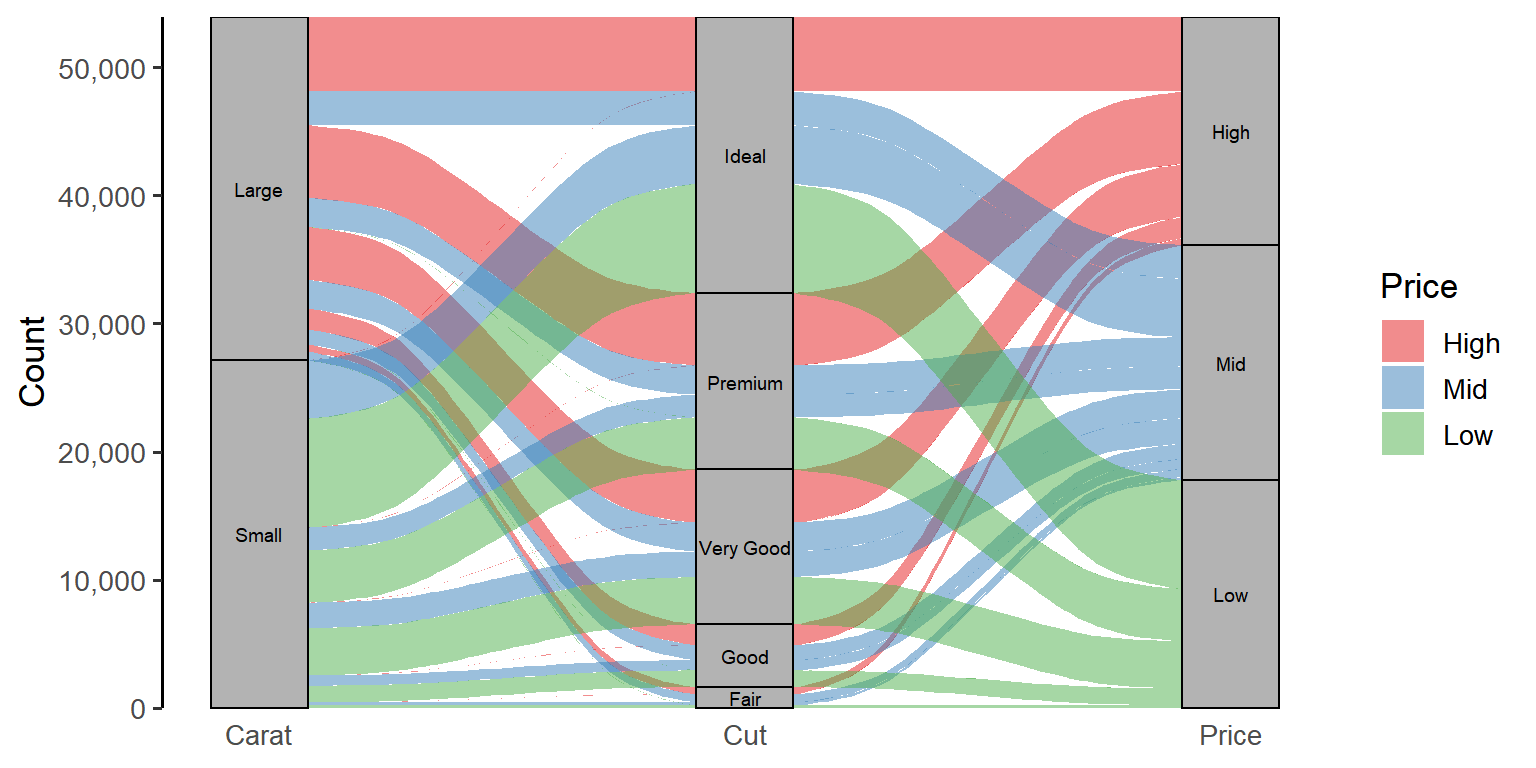
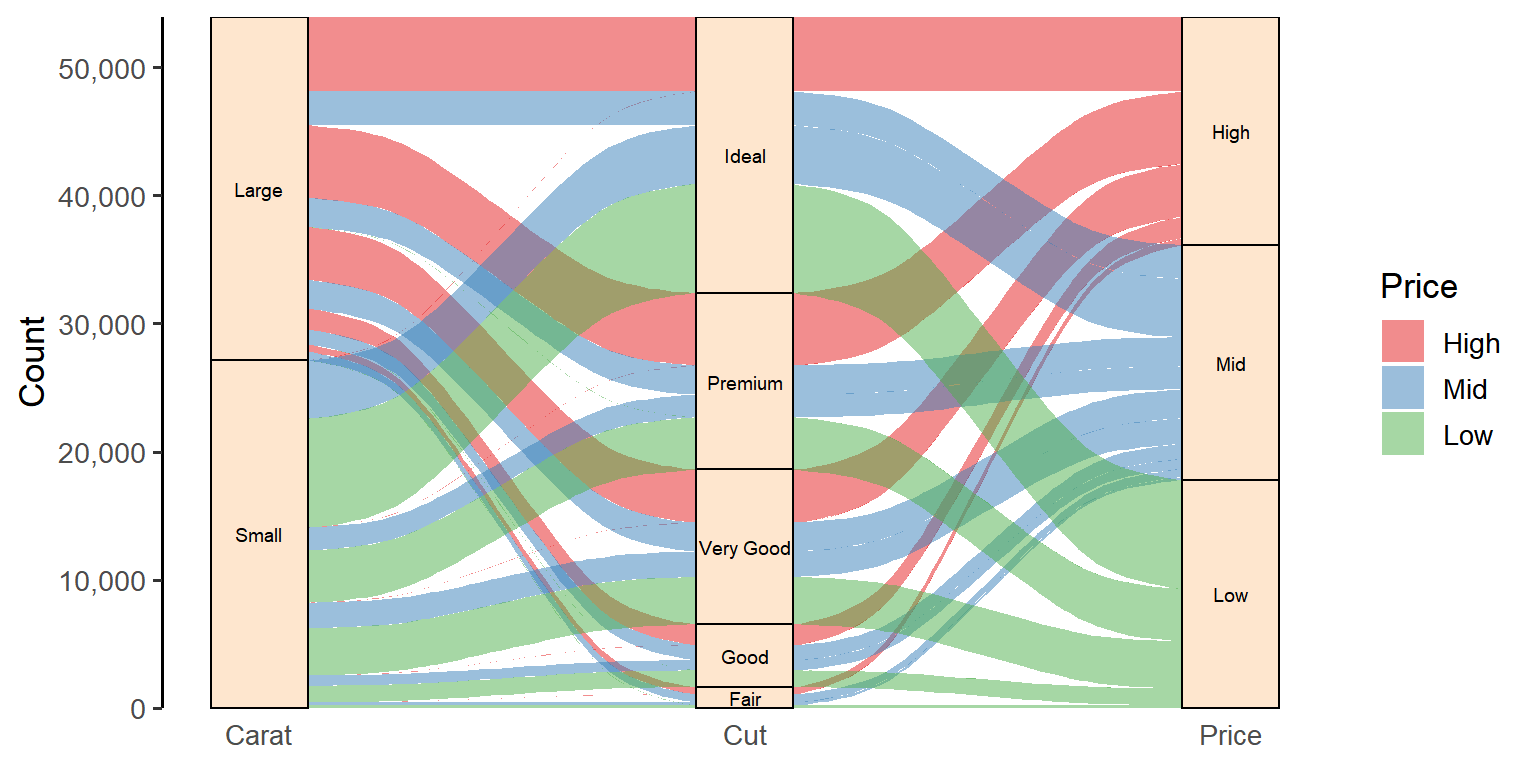
u

Changed region(s): [[0.4375, 0.0, 0.5312, 0.9375], [0.75, 0.0, 0.8438, 0.9375], [0.125, 0.0, 0.2188, 0.9375]]

diff --git a/_posts/2022-09-10-post-19-go-with-the-flow-alluvial-plots-with-ggplot/post-19-go-with-the-flow-alluvial-plots-with-ggplot.html b/_posts/2022-09-10-post-19-go-with-the-flow-alluvial-plots-with-ggplot/post-19-go-with-the-flow-alluvial-plots-with-ggplot.html
@@ -1629,7 +1629,6 @@ the numbers of diamonds by carat, cut, and price.</p>
 5 Large     Premium   Low           2
 6 Large     Very Good High       4135</code></pre>
 </div>
-<p><br></p>
 <p>With the appropriate data on hand, we can now visualize the
 relationships between carat, cut, and price in an alluvial diagram.
 There are a few things worth noting:</p>
@@ -1637,12 +1636,13 @@ There are a few things worth noting:</p>
 The flow streams and bars are drawn using <code>geom_alluvium()</code>
 and <code>geom_stratum()</code>, respectively</span> <span
 style="display: block; margin-top: 5px; margin-left: 10px"> (2) The bars
-are specified using the arguments <code>axis1</code>,
-<code>axis2</code>, … in <code>aes()</code></span> <span
-style="display: block; margin-top: 5px; margin-left: 10px"> (3) The
-function <code>geom_stratum()</code> will create a new internal variable
-<code>stratum</code> that can be used to label the bars via
-<code>label = after_stat(stratum)</code></span> <span
+are positioned along the horizontal axis using the arguments
+<code>axis1</code>, <code>axis2</code>, … in <code>aes()</code></span>
+<span style="display: block; margin-top: 5px; margin-left: 10px"> (3)
+The function <code>geom_stratum()</code> will create a new internal
+variable “<code>stratum</code>” that can be used to label the bars by
+specifying <code>label = after_stat(stratum)</code> in
+<code>geom_text()</code></span> <span
 style="display: block; margin-top: 5px; margin-left: 10px"> (4) The
 alluvia are colored by price</span></p>
 <div class="layout-chunk" data-layout="l-body">
@@ -1653,7 +1653,7 @@ alluvia are colored by price</span></p>
 <span></span>
 <span><span class='fu'><a href='https://ggplot2.tidyverse.org/reference/ggplot.html'>ggplot</a></span><span class='op'>(</span><span class='va'>diamonds_wide</span>, <span class='fu'><a href='https://ggplot2.tidyverse.org/reference/aes.html'>aes</a></span><span class='op'>(</span>axis1 <span class='op'>=</span> <span class='va'>carat_cat</span>, axis2 <span class='op'>=</span> <span class='va'>cut</span>, axis3 <span class='op'>=</span> <span class='va'>price_cat</span>, y <span class='op'>=</span> <span class='va'>count</span><span class='op'>)</span><span class='op'>)</span> <span class='op'>+</span></span>
 <span>  <span class='fu'><a href='http://corybrunson.github.io/ggalluvial/reference/geom_alluvium.html'>geom_alluvium</a></span><span class='op'>(</span><span class='fu'><a href='https://ggplot2.tidyverse.org/reference/aes.html'>aes</a></span><span class='op'>(</span>fill <span class='op'>=</span> <span class='va'>price_cat</span><span class='op'>)</span>, width <span class='op'>=</span> <span class='fl'>1</span><span class='op'>/</span><span class='fl'>5</span><span class='op'>)</span> <span class='op'>+</span></span>
-<span>  <span class='fu'><a href='http://corybrunson.github.io/ggalluvial/reference/geom_stratum.html'>geom_stratum</a></span><span class='op'>(</span>width <span class='op'>=</span> <span class='fl'>1</span><span class='op'>/</span><span class='fl'>5</span>, fill <span class='op'>=</span> <span class='st'>"grey70"</span>, color <span class='op'>=</span> <span class='st'>"black"</span><span class='op'>)</span> <span class='op'>+</span></span>
+<span>  <span class='fu'><a href='http://corybrunson.github.io/ggalluvial/reference/geom_stratum.html'>geom_stratum</a></span><span class='op'>(</span>width <span class='op'>=</span> <span class='fl'>1</span><span class='op'>/</span><span class='fl'>5</span>, fill <span class='op'>=</span> <span class='st'>"#fee6ce"</span>, color <span class='op'>=</span> <span class='st'>"black"</span><span class='op'>)</span> <span class='op'>+</span></span>
 <span>  <span class='fu'><a href='https://ggplot2.tidyverse.org/reference/geom_text.html'>geom_text</a></span><span class='op'>(</span>stat <span class='op'>=</span> <span class='st'>"stratum"</span>, <span class='fu'><a href='https://ggplot2.tidyverse.org/reference/aes.html'>aes</a></span><span class='op'>(</span>label <span class='op'>=</span> <span class='fu'><a href='https://ggplot2.tidyverse.org/reference/aes_eval.html'>after_stat</a></span><span class='op'>(</span><span class='va'>stratum</span><span class='op'>)</span><span class='op'>)</span>, size <span class='op'>=</span> <span class='fl'>2.5</span><span class='op'>)</span> <span class='op'>+</span></span>
 <span>  <span class='fu'><a href='https://ggplot2.tidyverse.org/reference/scale_discrete.html'>scale_x_discrete</a></span><span class='op'>(</span>limits <span class='op'>=</span> <span class='fu'><a href='https://rdrr.io/r/base/c.html'>c</a></span><span class='op'>(</span><span class='st'>"Carat"</span>, <span class='st'>"Cut"</span>, <span class='st'>"Price"</span><span class='op'>)</span>, expand <span class='op'>=</span> <span class='fu'><a href='https://rdrr.io/r/base/c.html'>c</a></span><span class='op'>(</span><span class='fl'>0</span>, <span class='fl'>0.2</span><span class='op'>)</span><span class='op'>)</span> <span class='op'>+</span></span>
 <span>  <span class='fu'><a href='https://ggplot2.tidyverse.org/reference/scale_continuous.html'>scale_y_continuous</a></span><span class='op'>(</span>expand <span class='op'>=</span> <span class='fu'><a href='https://rdrr.io/r/base/c.html'>c</a></span><span class='op'>(</span><span class='fl'>0</span>, <span class='fl'>0</span><span class='op'>)</span>, labels <span class='op'>=</span> <span class='fu'><a href='https://scales.r-lib.org/reference/comma.html'>comma_format</a></span><span class='op'>(</span><span class='op'>)</span><span class='op'>)</span> <span class='op'>+</span> </span>
@@ -1665,23 +1665,24 @@ alluvia are colored by price</span></p>
 </div>
 <p><img src="post-19-go-with-the-flow-alluvial-plots-with-ggplot_files/figure-html5/unnamed-chunk-2-1.png" width="85%" style="display: block; margin: auto;" /></p>
 </div>
-<p>Seems that no large diamond has low price, and no small diamond has
-high price, regardless of their cut quality.</p>
-<p>We can also adjust the width, the knot position, and the orientation
-to produce the so-called <a
+<p>It seems that no large diamond has a low price and no small diamond
+has a high price, regardless of the cut quality.</p>
+<p>From this plot, we can further adjust the width of the bars, the knot
+position (the inflection point) of the flow streams, and the orientation
+of the diagram to produce the so-called <a
 href="https://dataforvisualization.com/charts/parallel-sets-plot/">“parallel
-sets”</a></p>
+sets”</a>.</p>
 <div class="layout-chunk" data-layout="l-body">
 <div class="sourceCode">
 <pre class="sourceCode r"><code class="sourceCode r"><span><span class='fu'><a href='https://ggplot2.tidyverse.org/reference/ggplot.html'>ggplot</a></span><span class='op'>(</span><span class='va'>diamonds_wide</span>, <span class='fu'><a href='https://ggplot2.tidyverse.org/reference/aes.html'>aes</a></span><span class='op'>(</span>axis1 <span class='op'>=</span> <span class='va'>carat_cat</span>, axis2 <span class='op'>=</span> <span class='va'>cut</span>, axis3 <span class='op'>=</span> <span class='va'>price_cat</span>, y <span class='op'>=</span> <span class='va'>count</span><span class='op'>)</span><span class='op'>)</span> <span class='op'>+</span></span>
-<span>  <span class='fu'><a href='http://corybrunson.github.io/ggalluvial/reference/geom_alluvium.html'>geom_alluvium</a></span><span class='op'>(</span><span class='fu'><a href='https://ggplot2.tidyverse.org/reference/aes.html'>aes</a></span><span class='op'>(</span>fill <span class='op'>=</span> <span class='va'>price_cat</span><span class='op'>)</span>, width <span class='op'>=</span> <span class='fl'>0</span>, knot.pos <span class='op'>=</span> <span class='fl'>0</span>, show.legend <span class='op'>=</span> <span class='cn'>F</span><span class='op'>)</span> <span class='op'>+</span></span>
-<span>  <span class='fu'><a href='http://corybrunson.github.io/ggalluvial/reference/geom_stratum.html'>geom_stratum</a></span><span class='op'>(</span>width <span class='op'>=</span> <span class='fl'>0.02</span>, fill <span class='op'>=</span> <span class='st'>"black"</span>, color <span class='op'>=</span> <span class='st'>"white"</span><span class='op'>)</span> <span class='op'>+</span></span>
+<span>  <span class='fu'><a href='http://corybrunson.github.io/ggalluvial/reference/geom_alluvium.html'>geom_alluvium</a></span><span class='op'>(</span><span class='fu'><a href='https://ggplot2.tidyverse.org/reference/aes.html'>aes</a></span><span class='op'>(</span>fill <span class='op'>=</span> <span class='va'>price_cat</span><span class='op'>)</span>, width <span class='op'>=</span> <span class='fl'>0</span>, knot.pos <span class='op'>=</span> <span class='fl'>0</span>, show.legend <span class='op'>=</span> <span class='cn'>F</span><span class='op'>)</span> <span class='op'>+</span>  <span class='co'># knot.pos = 0 produces straight flow streams</span></span>
+<span>  <span class='fu'><a href='http://corybrunson.github.io/ggalluvial/reference/geom_stratum.html'>geom_stratum</a></span><span class='op'>(</span>width <span class='op'>=</span> <span class='fl'>0.02</span>, fill <span class='op'>=</span> <span class='st'>"black"</span>, color <span class='op'>=</span> <span class='st'>"white"</span><span class='op'>)</span> <span class='op'>+</span>  <span class='co'># reduce the bar width to create thick lines</span></span>
 <span>  <span class='fu'><a href='https://ggplot2.tidyverse.org/reference/geom_text.html'>geom_text</a></span><span class='op'>(</span>stat <span class='op'>=</span> <span class='st'>"stratum"</span>, <span class='fu'><a href='https://ggplot2.tidyverse.org/reference/aes.html'>aes</a></span><span class='op'>(</span>label <span class='op'>=</span> <span class='fu'><a href='https://ggplot2.tidyverse.org/reference/aes_eval.html'>after_stat</a></span><span class='op'>(</span><span class='va'>stratum</span><span class='op'>)</span><span class='op'>)</span>, size <span class='op'>=</span> <span class='fl'>2.5</span>, nudge_x <span class='op'>=</span> <span class='fl'>0.05</span><span class='op'>)</span> <span class='op'>+</span></span>
 <span>  <span class='fu'><a href='https://ggplot2.tidyverse.org/reference/scale_discrete.html'>scale_x_discrete</a></span><span class='op'>(</span>limits <span class='op'>=</span> <span class='fu'><a href='https://rdrr.io/r/base/c.html'>c</a></span><span class='op'>(</span><span class='st'>"Carat"</span>, <span class='st'>"Cut"</span>, <span class='st'>"Price"</span><span class='op'>)</span>, expand <span class='op'>=</span> <span class='fu'><a href='https://rdrr.io/r/base/c.html'>c</a></span><span class='op'>(</span><span class='fl'>0</span>, <span class='fl'>0.1</span><span class='op'>)</span><span class='op'>)</span> <span class='op'>+</span></span>
 <span>  <span class='fu'><a href='https://ggplot2.tidyverse.org/reference/scale_continuous.html'>scale_y_continuous</a></span><span class='op'>(</span>expand <span class='op'>=</span> <span class='fu'><a href='https://rdrr.io/r/base/c.html'>c</a></span><span class='op'>(</span><span class='fl'>0</span>, <span class='fl'>0</span><span class='op'>)</span>, labels <span class='op'>=</span> <span class='fu'><a href='https://scales.r-lib.org/reference/comma.html'>comma_format</a></span><span class='op'>(</span><span class='op'>)</span><span class='op'>)</span> <span class='op'>+</span> </span>
 <span>  <span class='fu'><a href='https://ggplot2.tidyverse.org/reference/labs.html'>labs</a></span><span class='op'>(</span>y <span class='op'>=</span> <span class='st'>"Count"</span><span class='op'>)</span> <span class='op'>+</span> </span>
 <span>  <span class='fu'><a href='https://ggplot2.tidyverse.org/reference/scale_brewer.html'>scale_fill_brewer</a></span><span class='op'>(</span>palette <span class='op'>=</span> <span class='st'>"Set1"</span><span class='op'>)</span> <span class='op'>+</span> </span>
-<span>  <span class='fu'><a href='https://ggplot2.tidyverse.org/reference/coord_flip.html'>coord_flip</a></span><span class='op'>(</span><span class='op'>)</span> <span class='op'>+</span></span>
+<span>  <span class='fu'><a href='https://ggplot2.tidyverse.org/reference/coord_flip.html'>coord_flip</a></span><span class='op'>(</span><span class='op'>)</span> <span class='op'>+</span>  <span class='co'># flip the plot</span></span>
 <span>  <span class='fu'><a href='https://ggplot2.tidyverse.org/reference/ggtheme.html'>theme_classic</a></span><span class='op'>(</span>base_size <span class='op'>=</span> <span class='fl'>13</span><span class='op'>)</span> <span class='op'>+</span> </span>
 <span>  <span class='fu'><a href='https://ggplot2.tidyverse.org/reference/theme.html'>theme</a></span><span class='op'>(</span>axis.line.y <span class='op'>=</span> <span class='fu'><a href='https://ggplot2.tidyverse.org/reference/element.html'>element_blank</a></span><span class='op'>(</span><span class='op'>)</span>,</span>
 <span>        axis.ticks.y <span class='op'>=</span> <span class='fu'><a href='https://ggplot2.tidyverse.org/reference/element.html'>element_blank</a></span><span class='op'>(</span><span class='op'>)</span><span class='op'>)</span></span></code></pre>
@@ -1715,8 +1716,8 @@ flows between adjacent bars (strata) based on each variable</p>
 <span>  <span class='fu'><a href='https://ggplot2.tidyverse.org/reference/geom_text.html'>geom_text</a></span><span class='op'>(</span>stat <span class='op'>=</span> <span class='st'>"stratum"</span>, <span class='fu'><a href='https://ggplot2.tidyverse.org/reference/aes.html'>aes</a></span><span class='op'>(</span>label <span class='op'>=</span> <span class='va'>value</span><span class='op'>)</span>, size <span class='op'>=</span> <span class='fl'>3</span><span class='op'>)</span> <span class='op'>+</span></span>
 <span>  <span class='fu'><a href='https://ggplot2.tidyverse.org/reference/scale_discrete.html'>scale_x_discrete</a></span><span class='op'>(</span>labels <span class='op'>=</span> <span class='fu'><a href='https://rdrr.io/r/base/c.html'>c</a></span><span class='op'>(</span><span class='st'>"Carat"</span>, <span class='st'>"Cut"</span>, <span class='st'>"Price"</span><span class='op'>)</span>, expand <span class='op'>=</span> <span class='fu'><a href='https://rdrr.io/r/base/c.html'>c</a></span><span class='op'>(</span><span class='fl'>0</span>, <span class='fl'>0.2</span><span class='op'>)</span><span class='op'>)</span> <span class='op'>+</span></span>
 <span>  <span class='fu'><a href='https://ggplot2.tidyverse.org/reference/scale_continuous.html'>scale_y_continuous</a></span><span class='op'>(</span>expand <span class='op'>=</span> <span class='fu'><a href='https://rdrr.io/r/base/c.html'>c</a></span><span class='op'>(</span><span class='fl'>0</span>, <span class='fl'>0</span><span class='op'>)</span>, labels <span class='op'>=</span> <span class='fu'><a href='https://scales.r-lib.org/reference/comma.html'>comma_format</a></span><span class='op'>(</span><span class='op'>)</span><span class='op'>)</span> <span class='op'>+</span> </span>
-<span>  <span class='fu'><a href='https://ggplot2.tidyverse.org/reference/labs.html'>labs</a></span><span class='op'>(</span>y <span class='op'>=</span> <span class='st'>"Count"</span><span class='op'>)</span> <span class='op'>+</span> </span>
-<span>  <span class='fu'><a href='https://ggplot2.tidyverse.org/reference/scale_brewer.html'>scale_fill_brewer</a></span><span class='op'>(</span>name <span class='op'>=</span> <span class='st'>"Price"</span>, palette <span class='op'>=</span> <span class='st'>"Set1"</span><span class='op'>)</span> <span class='op'>+</span> </span>
+<span>  <span class='fu'><a href='https://ggplot2.tidyverse.org/reference/labs.html'>labs</a></span><span class='op'>(</span>x <span class='op'>=</span> <span class='st'>""</span>, y <span class='op'>=</span> <span class='st'>"Count"</span><span class='op'>)</span> <span class='op'>+</span></span>
+<span>  <span class='fu'><a href='https://ggplot2.tidyverse.org/reference/guides.html'>guides</a></span><span class='op'>(</span>fill <span class='op'>=</span> <span class='st'>"none"</span><span class='op'>)</span> <span class='op'>+</span> </span>
 <span>  <span class='fu'><a href='https://ggplot2.tidyverse.org/reference/ggtheme.html'>theme_classic</a></span><span class='op'>(</span>base_size <span class='op'>=</span> <span class='fl'>13</span><span class='op'>)</span> <span class='op'>+</span> </span>
 <span>  <span class='fu'><a href='https://ggplot2.tidyverse.org/reference/theme.html'>theme</a></span><span class='op'>(</span>axis.line.x <span class='op'>=</span> <span class='fu'><a href='https://ggplot2.tidyverse.org/reference/element.html'>element_blank</a></span><span class='op'>(</span><span class='op'>)</span>,</span>
 <span>        axis.ticks.x <span class='op'>=</span> <span class='fu'><a href='https://ggplot2.tidyverse.org/reference/element.html'>element_blank</a></span><span class='op'>(</span><span class='op'>)</span><span class='op'>)</span></span></code></pre>
@@ -1724,6 +1725,16 @@ flows between adjacent bars (strata) based on each variable</p>
 <p><img src="post-19-go-with-the-flow-alluvial-plots-with-ggplot_files/figure-html5/unnamed-chunk-4-1.png" width="85%" style="display: block; margin: auto;" /></p>
 </div>
 <h2 id="summary">Summary</h2>
+<p>To recap what we’ve done in this post, we started by creating a
+standard alluvial diagram with wide format <code>diamonds</code> data
+using the package <code>ggalluvial</code>. We then modified the diagram
+to produce “parallel sets”. Finally, we’ve converted the data into long
+format and create another alluvial diagram that had different flow
+stream colors between adjacent bars.</p>
+<p>Again, alluvial diagrams are best for visualizing the relationships
+between categorical variables. And if the bars are ordered along the
+axis, for example, by time, distance, or some kind of environmental
+gradients, the diagrams can help reveal trends.</p>
 <p>Hope you learn something useful from this post and don’t forget to
 leave your comments and suggestions below if you have any!</p>
 <div class="sourceCode" id="cb2"><pre
